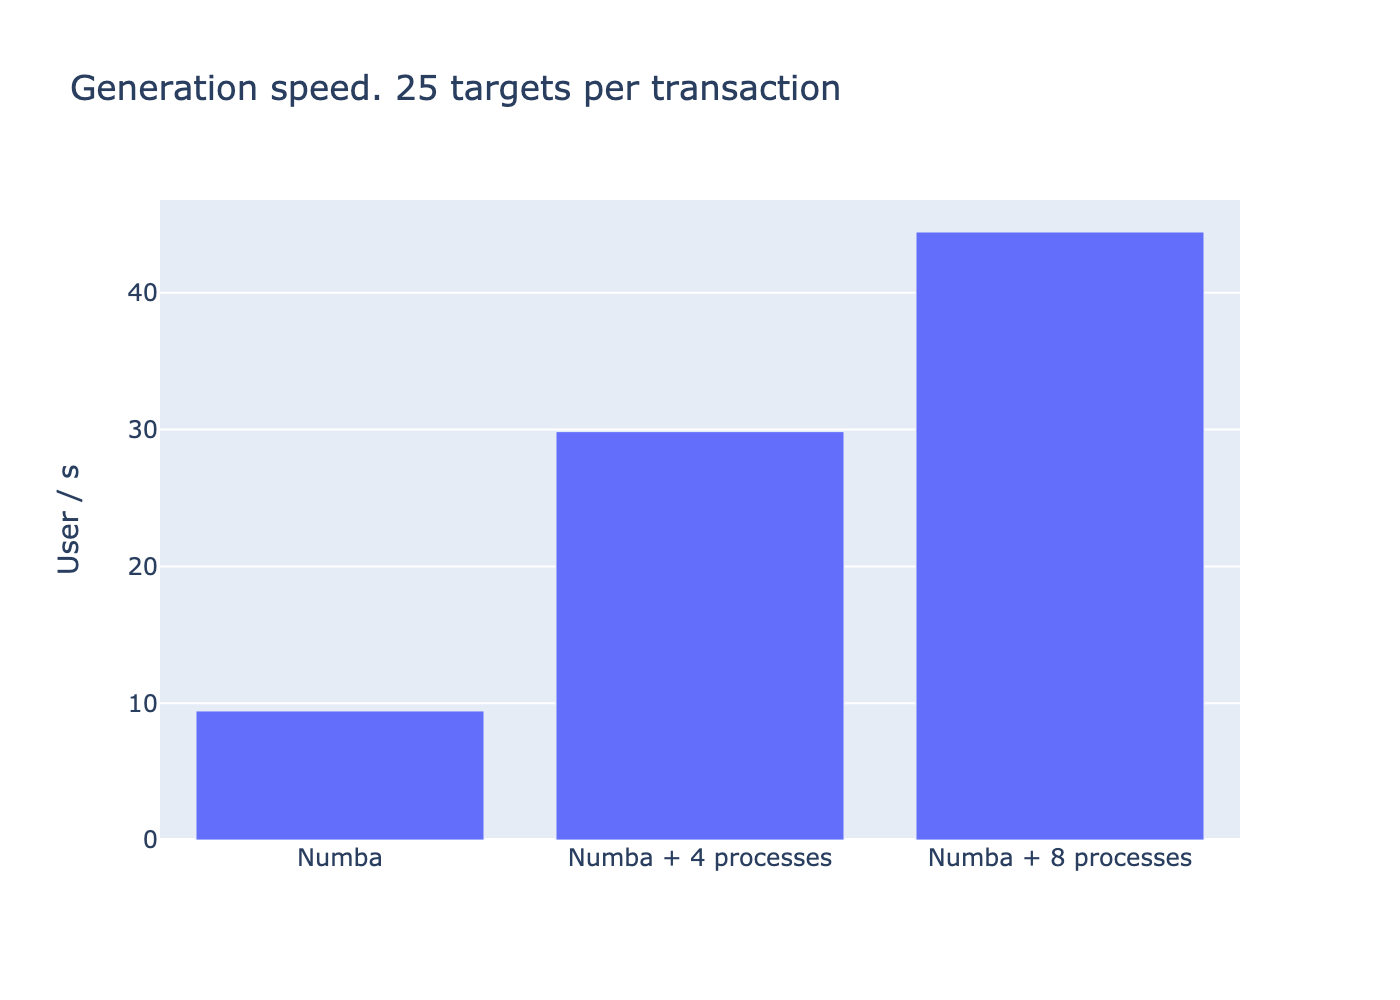
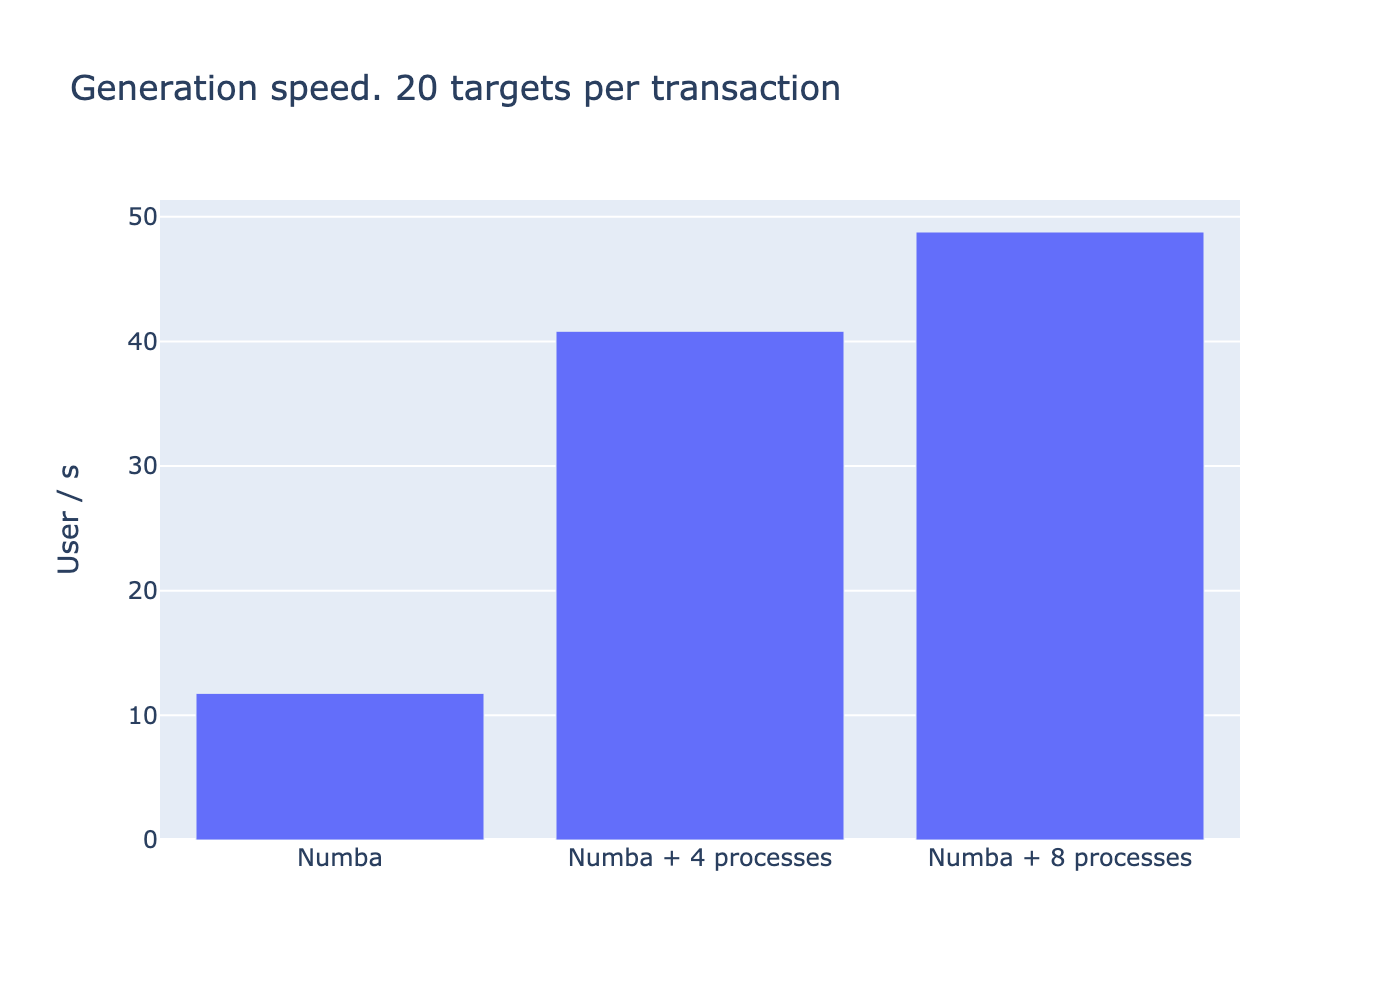
update 20 target per trans picture

diff --git a/tests/test_dataset_multi_target_profiler.py b/tests/test_dataset_multi_target_profiler.py
@@ -23,7 +23,7 @@ num_application = 2000
 
 
 def test_pytorch_dataloader_multiple_targets(num_workers):
-    num_targets = 20
+    num_targets = 20 - 3
 
     data = generate_synthetic_data(
         length=length, min_diff_day=1, max_diff_day=1, number_mcc=1
@@ -159,7 +159,7 @@ def test_pytorch_dataloader_multiple_targets(num_workers):
     next(iter(dataloader))
 
     cProfile.runctx("[batch for batch in tqdm(dataloader)]", globals(), locals(),
-                    filename=f'profiler_results/jit_pytorch_{num_targets}_targets_load_process_{num_workers}.pstats')
+                    filename=f'profiler_results/jit_pytorch_{num_targets + 3}_targets_load_process_{num_workers}.pstats')
 
 
 if __name__ == '__main__':

diff --git a/README.md b/README.md
@@ -8,9 +8,9 @@
 
 ### Overview:
 
-This project focuses on improving the speed of synthetic transaction target generation by leveraging Numba and multiprocessing. The optimized implementation achieves a remarkable 18x speedup, increasing performance from 25 users per second to 444 users per second for single-target generation.
+This project focuses on improving the speed of synthetic transaction target generation by leveraging Numba and multiprocessing. The optimized implementation achieves a remarkable 18x speedup, increasing performance from 20 users per second to 444 users per second for single-target generation.
 
-Furthermore, the framework now supports **generating 20 synthetic targets per transaction with a performance of 45 users per second**. 
+Furthermore, the framework now supports **generating 20 synthetic targets per transaction with a performance of 50 users per second**. 
 
 <img src="out/single_target_speedup.png" alt="">
 
@@ -31,9 +31,9 @@ Furthermore, the framework now supports **generating 20 synthetic targets per tr
 
 | JIT | Num Process | Num Users | Transactions per User | Num Targets per Transaction | Time (s) | Speedup | User per Sec |
 |-----|-------------|-----------|-----------------------|-----------------------------|----------|---------|--------------|
-| +   | 0           | 2000      | 4096                  | 20                          | 212      | 1       | 9            |
-| +   | 4           | 2000      | 4096                  | 20                          | 67       | 3       | 30           |
-| +   | 8           | 2000      | 4096                  | 20                          | 45       | 5       | 44           |
+| +   | 0           | 2000      | 4096                  | 20                          | 170      | 1       | 12           |
+| +   | 4           | 2000      | 4096                  | 20                          | 49       | 3       | 41           |
+| +   | 8           | 2000      | 4096                  | 20                          | 41       | 4       | 49           |
 
 
 
@@ -77,7 +77,7 @@ bash scripts/data_generate/seq2seq_target_generate.sh
 
 **Run single-target profiler**
 ```
-python tests/test_dataset_multi_target_20_target.py
+python tests/test_dataset_single_target_profiler.py
 ```
 
 **Run multi-target profiler**
